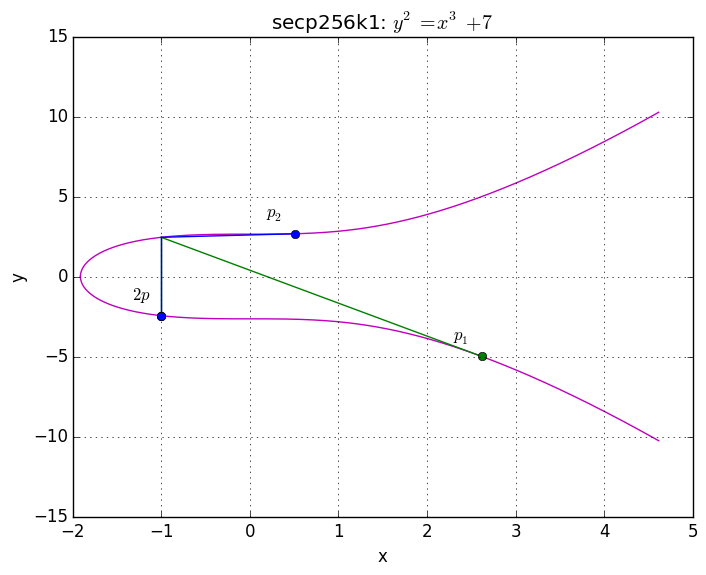
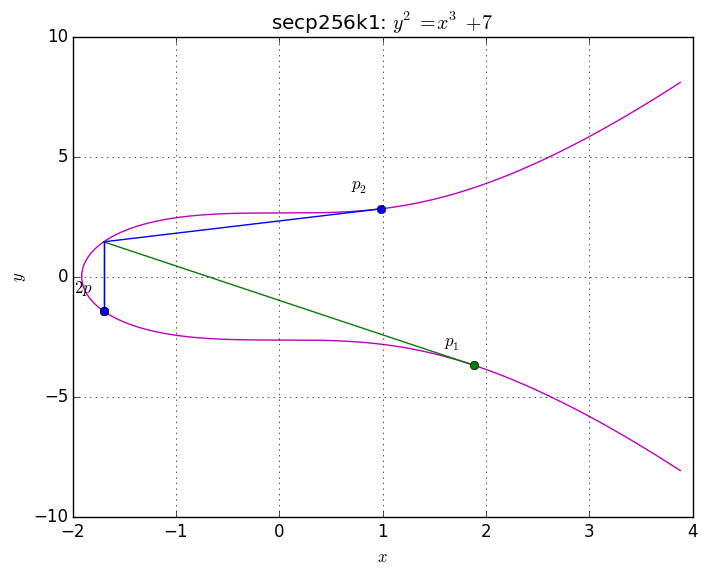
use latex format for all graph labels

diff --git a/ec_poly.py b/ec_poly.py
@@ -268,8 +268,8 @@ def init_plot_ec(x_max = 4, color = "b"):
 	# the top half of the elliptic curve
 	plt.plot(x_array, y(x_array), color)
 	plt.plot(x_array, -y(x_array), color)
-	plt.ylabel("y")
-	plt.xlabel("x")
+	plt.ylabel("$y$")
+	plt.xlabel("$x$")
 	plt.title("secp256k1: $%s$" % secp256k1_eq)
 
 def plot_add(
@@ -323,6 +323,7 @@ def plot_add(
 
 	if labels_on:
 		# name the point at p
+		p_name = ("$%s$" % p_name) if len(p_name) else ""
 		plt.text(xp - x_text_offset, yp + y_text_offset, p_name)
 
 	if p is not q:
@@ -331,6 +332,7 @@ def plot_add(
 
 		if labels_on:
 			# name the point at q
+			q_name = ("$%s$" % q_name) if len(q_name) else ""
 			plt.text(xq - x_text_offset, yq + y_text_offset, q_name)
 
 	# second, plot the vertical line to the other half of the curve...
@@ -339,6 +341,7 @@ def plot_add(
 	plt.plot(x_array, y_array, "%s" % color)
 	plt.plot(xr, -yr, "%so" % color)
 	if labels_on:
+		p_plus_q_name = ("$%s$" % p_plus_q_name) if len(p_plus_q_name) else ""
 		plt.text(xr - x_text_offset, -yr + y_text_offset, p_plus_q_name)
 
 def plot_subtract(
@@ -745,7 +748,7 @@ if __name__ == "__main__":
 		" the curve and one in the bottom:"
 	)
 	# works best if you pick a value between cuberoot(-7) and -0.5
-	x2p = -1
+	x2p = -1.7
 	y2p_pos = False # 2p is below the x-axis
 	y2p = y_ec(x2p, y2p_pos)
 	two_p = (x2p, y2p)
@@ -761,16 +764,16 @@ if __name__ == "__main__":
 	x_max = max(x2p, half_p1_x, half_p2_x)
 
 	init_plot_ec(x_max = x_max + 2, color = "m")
-	plot_add(half_p1, half_p1, "$p_1$", "", "$2p$", color = "g")
-	plot_add(half_p2, half_p2, "$p_2$", "", "", color = "b")
+	plot_add(half_p1, half_p1, "p_1", "", "2p", color = "g")
+	plot_add(half_p2, half_p2, "p_2", "", "", color = "b")
 
 	finalize_plot_ec("point_halving1")
 
 	quick_write(
 		"this means that it is not possible to conduct a point division and"
 		" arrive at a single solution on the bitcoin elliptic curve. note that"
-		" this conclusion does not apply to finite fields, as we will see later"
-		" on."
+		" this conclusion does not apply to elliptic curves over a finite"
+		" field, as we will see later on."
 	)
 	quick_write(hr)
 

diff --git a/results/ec_poly.md b/results/ec_poly.md
@@ -92,7 +92,7 @@ so if subtraction is possible on the bitcoin elliptic curve, then how about divi
 
 ![point_halving1](point_halving1.png)
 
-this means that it is not possible to conduct a point division and arrive at a single solution on the bitcoin elliptic curve. note that this conclusion does not apply to finite fields, as we will see later on.
+this means that it is not possible to conduct a point division and arrive at a single solution on the bitcoin elliptic curve. note that this conclusion does not apply to elliptic curves over a finite field, as we will see later on.
 
 
 --------------------------------------------------------------------------------
